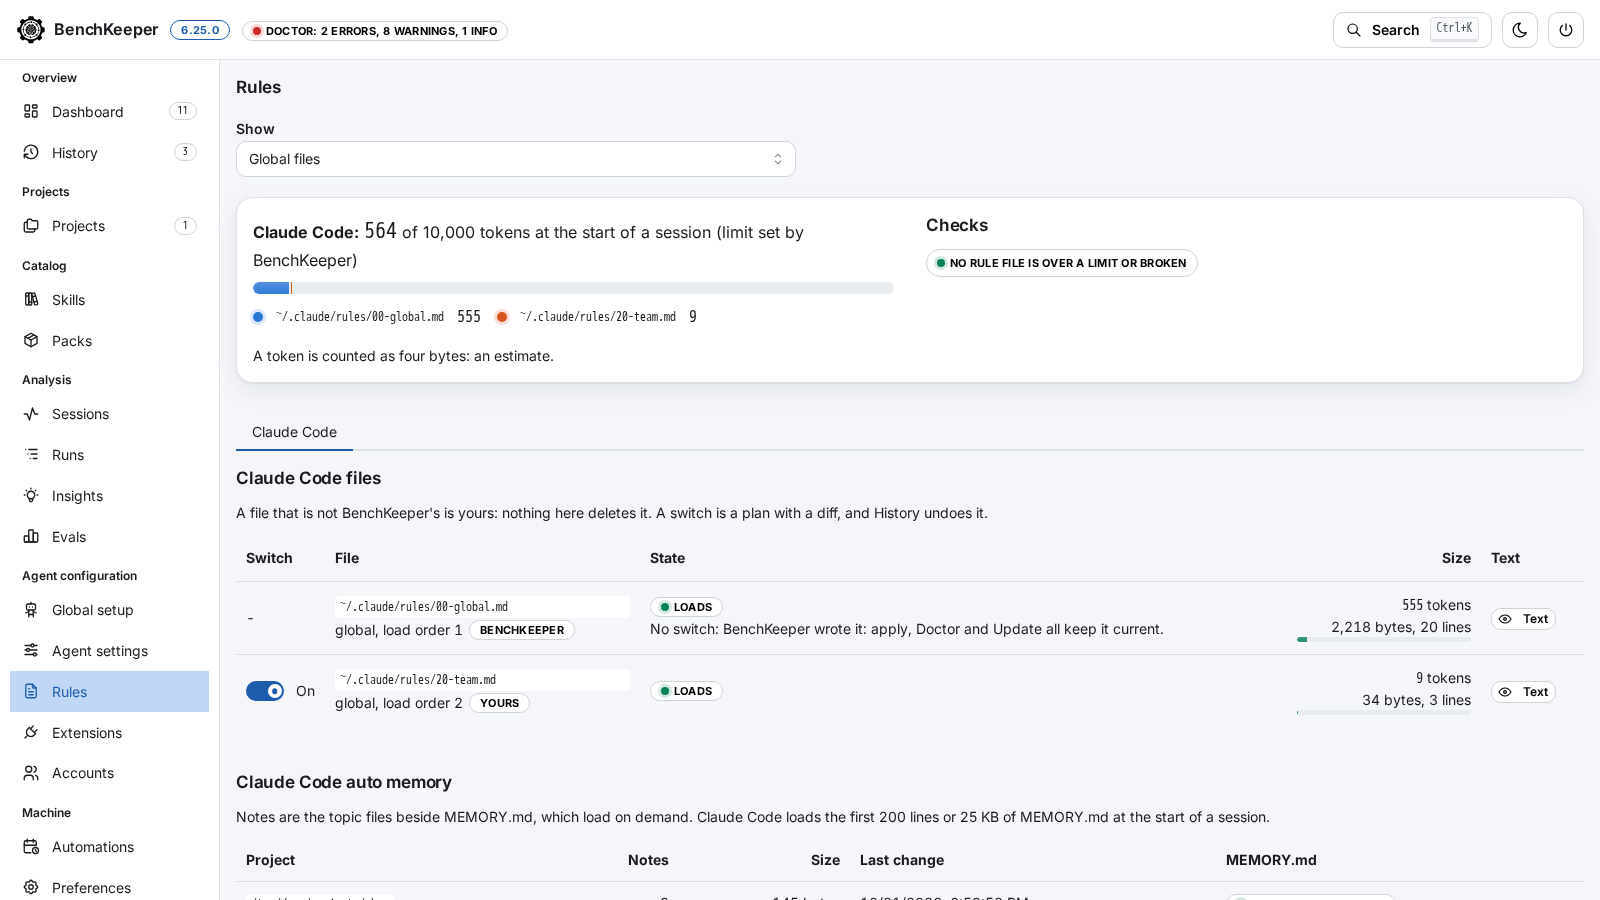
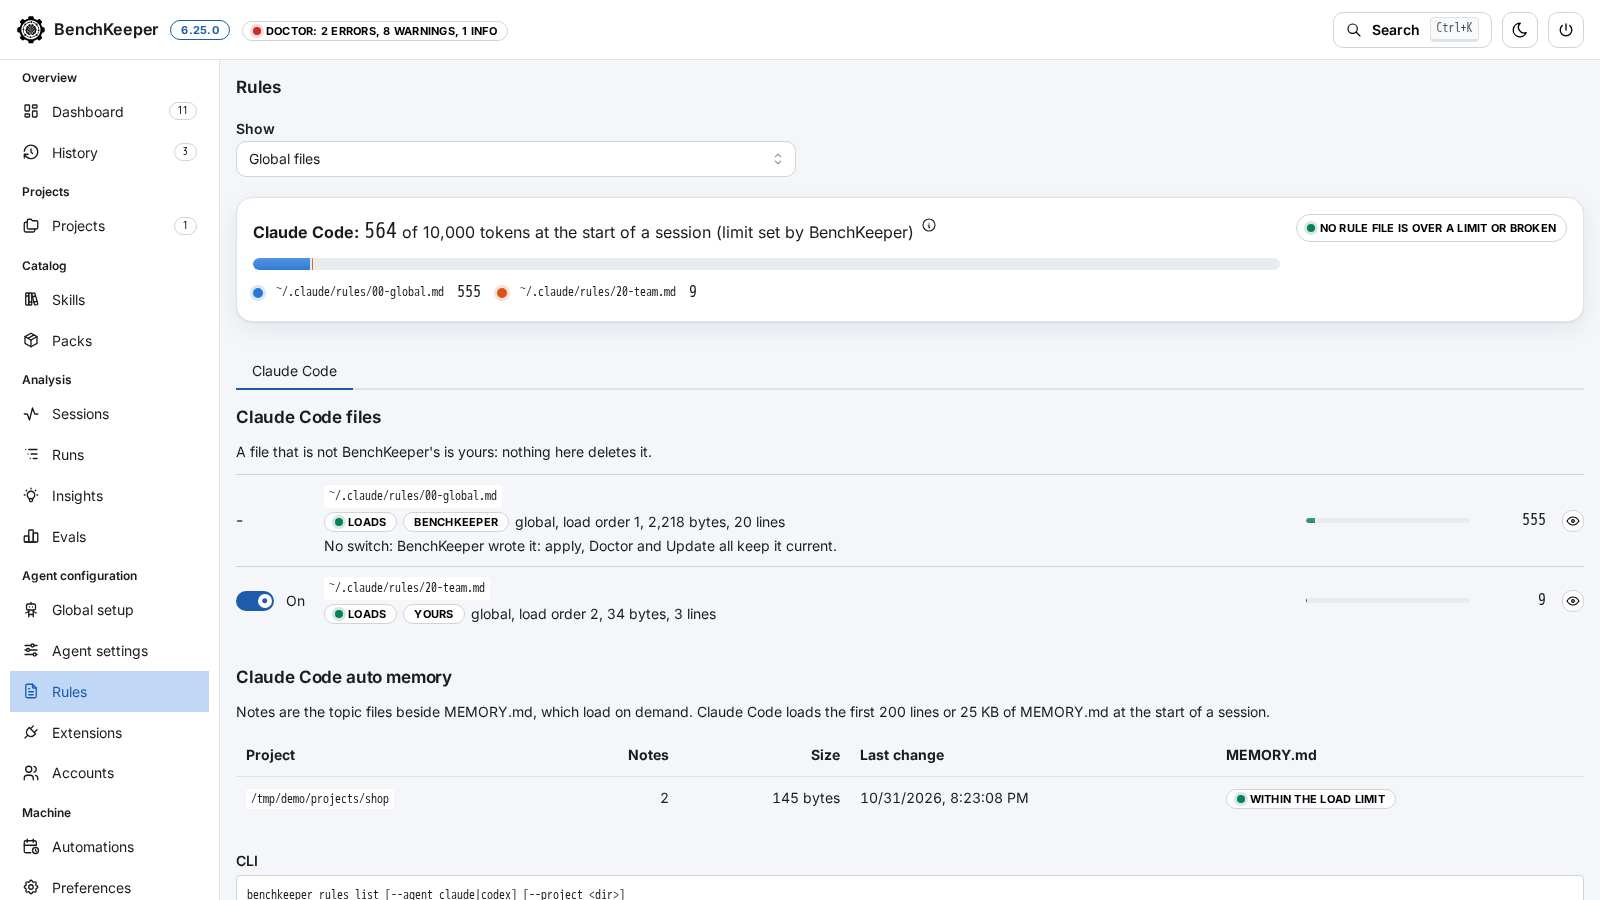
feat(app): show Rules files as rows and fold the checks into the budget panel (#905)
* feat(app): show Rules files as rows and fold the checks into the budget panel

Each file is one row without column headers: switch, path with its state, a token bar and the right-aligned count, and the text as an icon button. The checks result is one chip beside the budget count, and findings follow below it. The token estimate sits behind an info control. Page height at 1280 px: 1136 px before, 1008 px after; at 390 px: 1428 px before, 1331 px after.

* fix(app): close the token note on Escape, keep findings in the Checks region, let the file bar shrink

* fix(app): describe the token info button with its note and keep the note inside the viewport

diff --git a/app/ui/rules.jsx b/app/ui/rules.jsx
@@ -1,6 +1,6 @@
-import { Badge, Button, Code, Drawer, Group, List, Paper, Progress, Select, SimpleGrid, Stack, Table, Tabs, Text, Textarea, Title } from '@mantine/core';
-import { IconEye, IconPencil, IconPlayerStop } from '@tabler/icons-react';
-import { useEffect, useRef, useState } from 'react';
+import { ActionIcon, Badge, Box, Button, Code, Drawer, Group, List, Paper, Popover, Progress, Select, Stack, Table, Tabs, Text, Textarea, Title } from '@mantine/core';
+import { IconEye, IconInfoCircle, IconPencil, IconPlayerStop } from '@tabler/icons-react';
+import { useEffect, useId, useRef, useState } from 'react';
 import { api } from './api.js';
 import { Cli, Plan, PlanClose, PlanDropped, PlanSwitch, Section, usePlanRunning } from './parts.jsx';
 import { when } from './run.jsx';
@@ -64,12 +64,18 @@ function useSwitch(dir, onPlan) {
   return { busy, error, toggle };
 }
 
+// The result of the checks as one chip beside the budget count; the findings themselves follow in Findings.
+const ChecksChip = ({ findings }) => (
+  <Badge variant="default" h="auto" py={4} styles={{ label: { whiteSpace: 'normal' } }} leftSection={<Dot color={findings.some((f) => f.level === 'error') ? 'red' : findings.length ? 'yellow' : 'teal'} />}>
+    {findings.length ? `${findings.length} ${findings.length === 1 ? 'finding' : 'findings'}` : 'No rule file is over a limit or broken'}
+  </Badge>
+);
+
 // Findings of the checks: severity, file and line in the message, the fix, and a switch-off plan where that is safe.
 // A busy control here and in Files ignores clicks but keeps the keyboard focus (a disabled one loses it).
 // locked: an apply runs, and a new plan would drop its view.
 function Findings({ findings, dir, onPlan, locked }) {
   const { busy, error, toggle } = useSwitch(dir, onPlan);
-  if (!findings.length) return <Badge variant="default" h="auto" py={4} styles={{ label: { whiteSpace: 'normal' } }} leftSection={<Dot color="teal" />}>No rule file is over a limit or broken</Badge>;
   return (
     <Stack gap="sm">
       {error && <Note color="red" title="Not planned">{error}</Note>}
@@ -170,30 +176,52 @@ function Preview({ row, dir, onClose, onSaved }) {
   );
 }
 
-// The top strip: per agent what loads at the start of every session against BenchKeeper's limit, as one bar split by source
-// with its legend, beside the checks on a wide screen.
-const Summary = ({ agents, children }) => (
+// The estimate behind an info button; Escape on the button closes it too (Mantine closes on Escape only inside the dropdown).
+function TokenNote({ name }) {
+  const [opened, setOpened] = useState(false);
+  const note = useId();
+  return (
+    <Popover opened={opened} onChange={setOpened} width={240} withArrow withinPortal={false} position="bottom-start">
+      <Popover.Target>
+        <ActionIcon variant="subtle" color="gray" size="sm" aria-label={`How ${name} tokens are counted`} aria-describedby={opened ? note : undefined} onClick={() => setOpened((o) => !o)} onKeyDown={(e) => e.key === 'Escape' && setOpened(false)}>{icon(IconInfoCircle, 16)}</ActionIcon>
+      </Popover.Target>
+      <Popover.Dropdown maw="calc(100vw - 32px)"><Text size="sm" id={note}>A token is counted as four bytes: an estimate.</Text></Popover.Dropdown>
+    </Popover>
+  );
+}
+
+// The top panel: per agent what loads at the start of every session against BenchKeeper's limit, as one bar split by source
+// with its legend, and the result of the checks as a chip beside the count. detail: the findings, when there are any.
+const Summary = ({ agents, chip, detail }) => (
   <Paper withBorder p="md" component="section" aria-label="Summary">
-    <SimpleGrid cols={{ base: 1, lg: 2 }} spacing="xl">
-      <Stack gap="md">
-        {agents.map(({ id, name, budget: { total, items, over, threshold, limits: [start] } }) => {
-          const parts = partsOf(items);
-          // Codex counts only what fits its size limit; the sources stay as found.
-          const unloaded = items.reduce((n, i) => n + i.tokens, 0) - total;
-          return (
-            <Stack key={id} gap="xs">
-              <Text><Text span fw={700}>{name}:</Text> <Text span fw={700} fz={22} className="bk-num">{number(total)}</Text> of {number(start.max)} tokens at the start of a session (limit set by {start.by})</Text>
-              <Limit {...start} parts={parts.length ? parts : undefined} />
-              {parts.length > 0 && <Legend parts={parts} name={name} />}
-              {unloaded > 0 && <Text size="sm">About {number(unloaded)} tokens of these sources may not load: {name} stops adding files at its size limit.</Text>}
-              {over && <Note color="yellow">More than {number(threshold)} tokens (BenchKeeper's own limit, not the agent's): every turn pays for them. Turn off a file, split a long one into path-scoped rules, or shorten the largest source.</Note>}
-            </Stack>
-          );
-        })}
-        <Text size="sm">A token is counted as four bytes: an estimate.</Text>
-      </Stack>
-      {children}
-    </SimpleGrid>
+    <Stack gap="md">
+      <Group justify="space-between" align="flex-start" gap="md">
+        <Stack gap="md" style={{ flex: '1 1 360px', minWidth: 0 }}>
+          {agents.map(({ id, name, budget: { total, items, over, threshold, limits: [start] } }) => {
+            const parts = partsOf(items);
+            // Codex counts only what fits its size limit; the sources stay as found.
+            const unloaded = items.reduce((n, i) => n + i.tokens, 0) - total;
+            return (
+              <Stack key={id} gap="xs">
+                <Group gap={4} wrap="nowrap" align="flex-start">
+                  <Text><Text span fw={700}>{name}:</Text> <Text span fw={700} fz={22} className="bk-num">{number(total)}</Text> of {number(start.max)} tokens at the start of a session (limit set by {start.by})</Text>
+                  <TokenNote name={name} />
+                </Group>
+                <Limit {...start} parts={parts.length ? parts : undefined} />
+                {parts.length > 0 && <Legend parts={parts} name={name} />}
+                {unloaded > 0 && <Text size="sm">About {number(unloaded)} tokens of these sources may not load: {name} stops adding files at its size limit.</Text>}
+                {over && <Note color="yellow">More than {number(threshold)} tokens (BenchKeeper's own limit, not the agent's): every turn pays for them. Turn off a file, split a long one into path-scoped rules, or shorten the largest source.</Note>}
+              </Stack>
+            );
+          })}
+        </Stack>
+        {/* contents: the region keeps the chip and the findings together while they sit in the panel's own rows. */}
+        <Box component="section" aria-label="Checks" style={{ display: 'contents' }}>
+          {chip}
+          {detail && <Box style={{ flex: '1 1 100%', minWidth: 0 }}>{detail}</Box>}
+        </Box>
+      </Group>
+    </Stack>
   </Paper>
 );
 
@@ -235,40 +263,44 @@ const Memory = ({ memory: { folders } }) => (
   </Table.ScrollContainer>
 );
 
-// pending: the open plan; its row's switch shows it (PlanSwitch).
+// One row per file: switch, path with its state, a bar against the limit with the token count, the text. pending: the open
+// plan; its row's switch shows it (PlanSwitch).
 function Files({ agent, dir, limit, onPlan, onPreview, pending, onClear, locked }) {
   const { busy, error, toggle } = useSwitch(dir, onPlan);
   if (!agent.rows.length) return <Text size="sm">No instruction file found.</Text>;
   return (
     <Stack gap="sm">
       {error && <Note color="red" title="Not planned">{error}</Note>}
-      <Text size="sm">A file that is not BenchKeeper's is yours: nothing here deletes it. A switch is a plan with a diff, and History undoes it.</Text>
-      <Table.ScrollContainer minWidth={700} scrollAreaProps={{ viewportProps: { tabIndex: 0, role: 'region', 'aria-label': `${agent.name} instruction files, scrollable` } }}>
-        <Table aria-label={`${agent.name} instruction files`} verticalSpacing="sm">
-          <Table.Thead><Table.Tr><Table.Th>Switch</Table.Th><Table.Th>File</Table.Th><Table.Th>State</Table.Th><Table.Th ta="right">Size</Table.Th><Table.Th>Text</Table.Th></Table.Tr></Table.Thead>
-          <Table.Tbody>
-            {agent.rows.map((r) => { const wait = pending?.row.path === r.path, off = locked || busy === r.path; return (
-              <Table.Tr key={r.path}>
-                <Table.Td w={80}>
-                  {r.switch.by
-                    ? <PlanSwitch name={`Load ${r.shown} in ${agent.name}`} hideName on={r.load !== 'off'} pending={wait ? pending : null} off={off}
-                      onAsk={(on) => toggle(agent.id, r, on, agent.name)} onClear={onClear} />
-                    : '-'}
-                </Table.Td>
-                <Table.Td>
-                  <Stack gap={2}>
-                    <Code style={{ overflowWrap: 'anywhere' }}>{r.shown}</Code>
-                    <Group gap={6}><Text size="sm">{r.scope}{r.order != null ? `, load order ${r.order}` : ''}</Text><Badge variant="default" miw="max-content">{r.owner}</Badge></Group>
-                  </Stack>
-                </Table.Td>
-                <Table.Td><Stack gap={2}><Loads row={r} />{r.by && <Text size="sm">{r.by}</Text>}{!r.switch.by && <Text size="sm">No switch: {r.switch.why}.</Text>}</Stack></Table.Td>
-                <Table.Td ta="right"><span className="bk-num">{number(r.tokens)}</span> tokens<Text size="sm">{number(r.bytes)} bytes{r.lines ? `, ${r.lines} lines` : ''}</Text><Limit label={r.shown} value={r.tokens} max={limit} unit="tokens" by="BenchKeeper" /></Table.Td>
-                <Table.Td><Button size="compact-xs" variant="default" leftSection={icon(IconEye)} aria-label={`Show text of ${r.shown}`} onClick={() => onPreview(r)}>Text</Button></Table.Td>
-              </Table.Tr>
-            ); })}
-          </Table.Tbody>
-        </Table>
-      </Table.ScrollContainer>
+      <Text size="sm">A file that is not BenchKeeper's is yours: nothing here deletes it.</Text>
+      <List listStyleType="none" aria-label={`${agent.name} instruction files`} styles={{ item: { borderTop: '1px solid var(--mantine-color-default-border)' }, itemWrapper: { display: 'block', width: '100%' } }}>
+        {agent.rows.map((r) => { const wait = pending?.row.path === r.path, off = locked || busy === r.path; return (
+          <List.Item key={r.path}>
+            <Box style={{ display: 'flex', flexWrap: 'wrap', alignItems: 'center', gap: '8px 16px', padding: '10px 0' }}>
+              <Box style={{ flex: '0 0 72px' }}>
+                {r.switch.by
+                  ? <PlanSwitch name={`Load ${r.shown} in ${agent.name}`} hideName on={r.load !== 'off'} pending={wait ? pending : null} off={off}
+                    onAsk={(on) => toggle(agent.id, r, on, agent.name)} onClear={onClear} />
+                  : '-'}
+              </Box>
+              <Stack gap={4} style={{ flex: '1 1 200px', minWidth: 0 }}>
+                <Code style={{ overflowWrap: 'anywhere', alignSelf: 'flex-start' }}>{r.shown}</Code>
+                <Group gap={6}>
+                  <Loads row={r} />
+                  <Badge variant="default" miw="max-content">{r.owner}</Badge>
+                  <Text size="sm">{r.scope}{r.order != null ? `, load order ${r.order}` : ''}, {number(r.bytes)} bytes{r.lines ? `, ${r.lines} lines` : ''}</Text>
+                </Group>
+                {r.by && <Text size="sm">{r.by}</Text>}
+                {!r.switch.by && <Text size="sm">No switch: {r.switch.why}.</Text>}
+              </Stack>
+              <Group gap="sm" wrap="nowrap" style={{ flex: '0 1 240px', minWidth: 0 }}>
+                <Box style={{ flex: 1, minWidth: 0 }}><Limit label={r.shown} value={r.tokens} max={limit} unit="tokens" by="BenchKeeper" /></Box>
+                <Text className="bk-num" ta="right" miw={64}>{number(r.tokens)}</Text>
+              </Group>
+              <ActionIcon variant="default" size="sm" aria-label={`Show text of ${r.shown}`} onClick={() => onPreview(r)}>{icon(IconEye, 16)}</ActionIcon>
+            </Box>
+          </List.Item>
+        ); })}
+      </List>
     </Stack>
   );
 }
@@ -294,7 +326,7 @@ export function Rules({ overview, params, refresh, project }) {
       <Loading state={state} label="instruction files">
         {(data) => (
           <Stack gap="xl">
-            <Summary agents={data.agents}><Section title="Checks"><Findings findings={data.findings} dir={chosen} onPlan={onPlan} locked={running} /></Section></Summary>
+            <Summary agents={data.agents} chip={<ChecksChip findings={data.findings} />} detail={data.findings.length > 0 && <Findings findings={data.findings} dir={chosen} onPlan={onPlan} locked={running} />} />
             {data.agents.length > 0 && (
               <Tabs defaultValue={data.agents[0].id}>
                 <Tabs.List aria-label="Agents">{data.agents.map((a) => <Tabs.Tab key={a.id} value={a.id}>{a.name}</Tabs.Tab>)}</Tabs.List>
